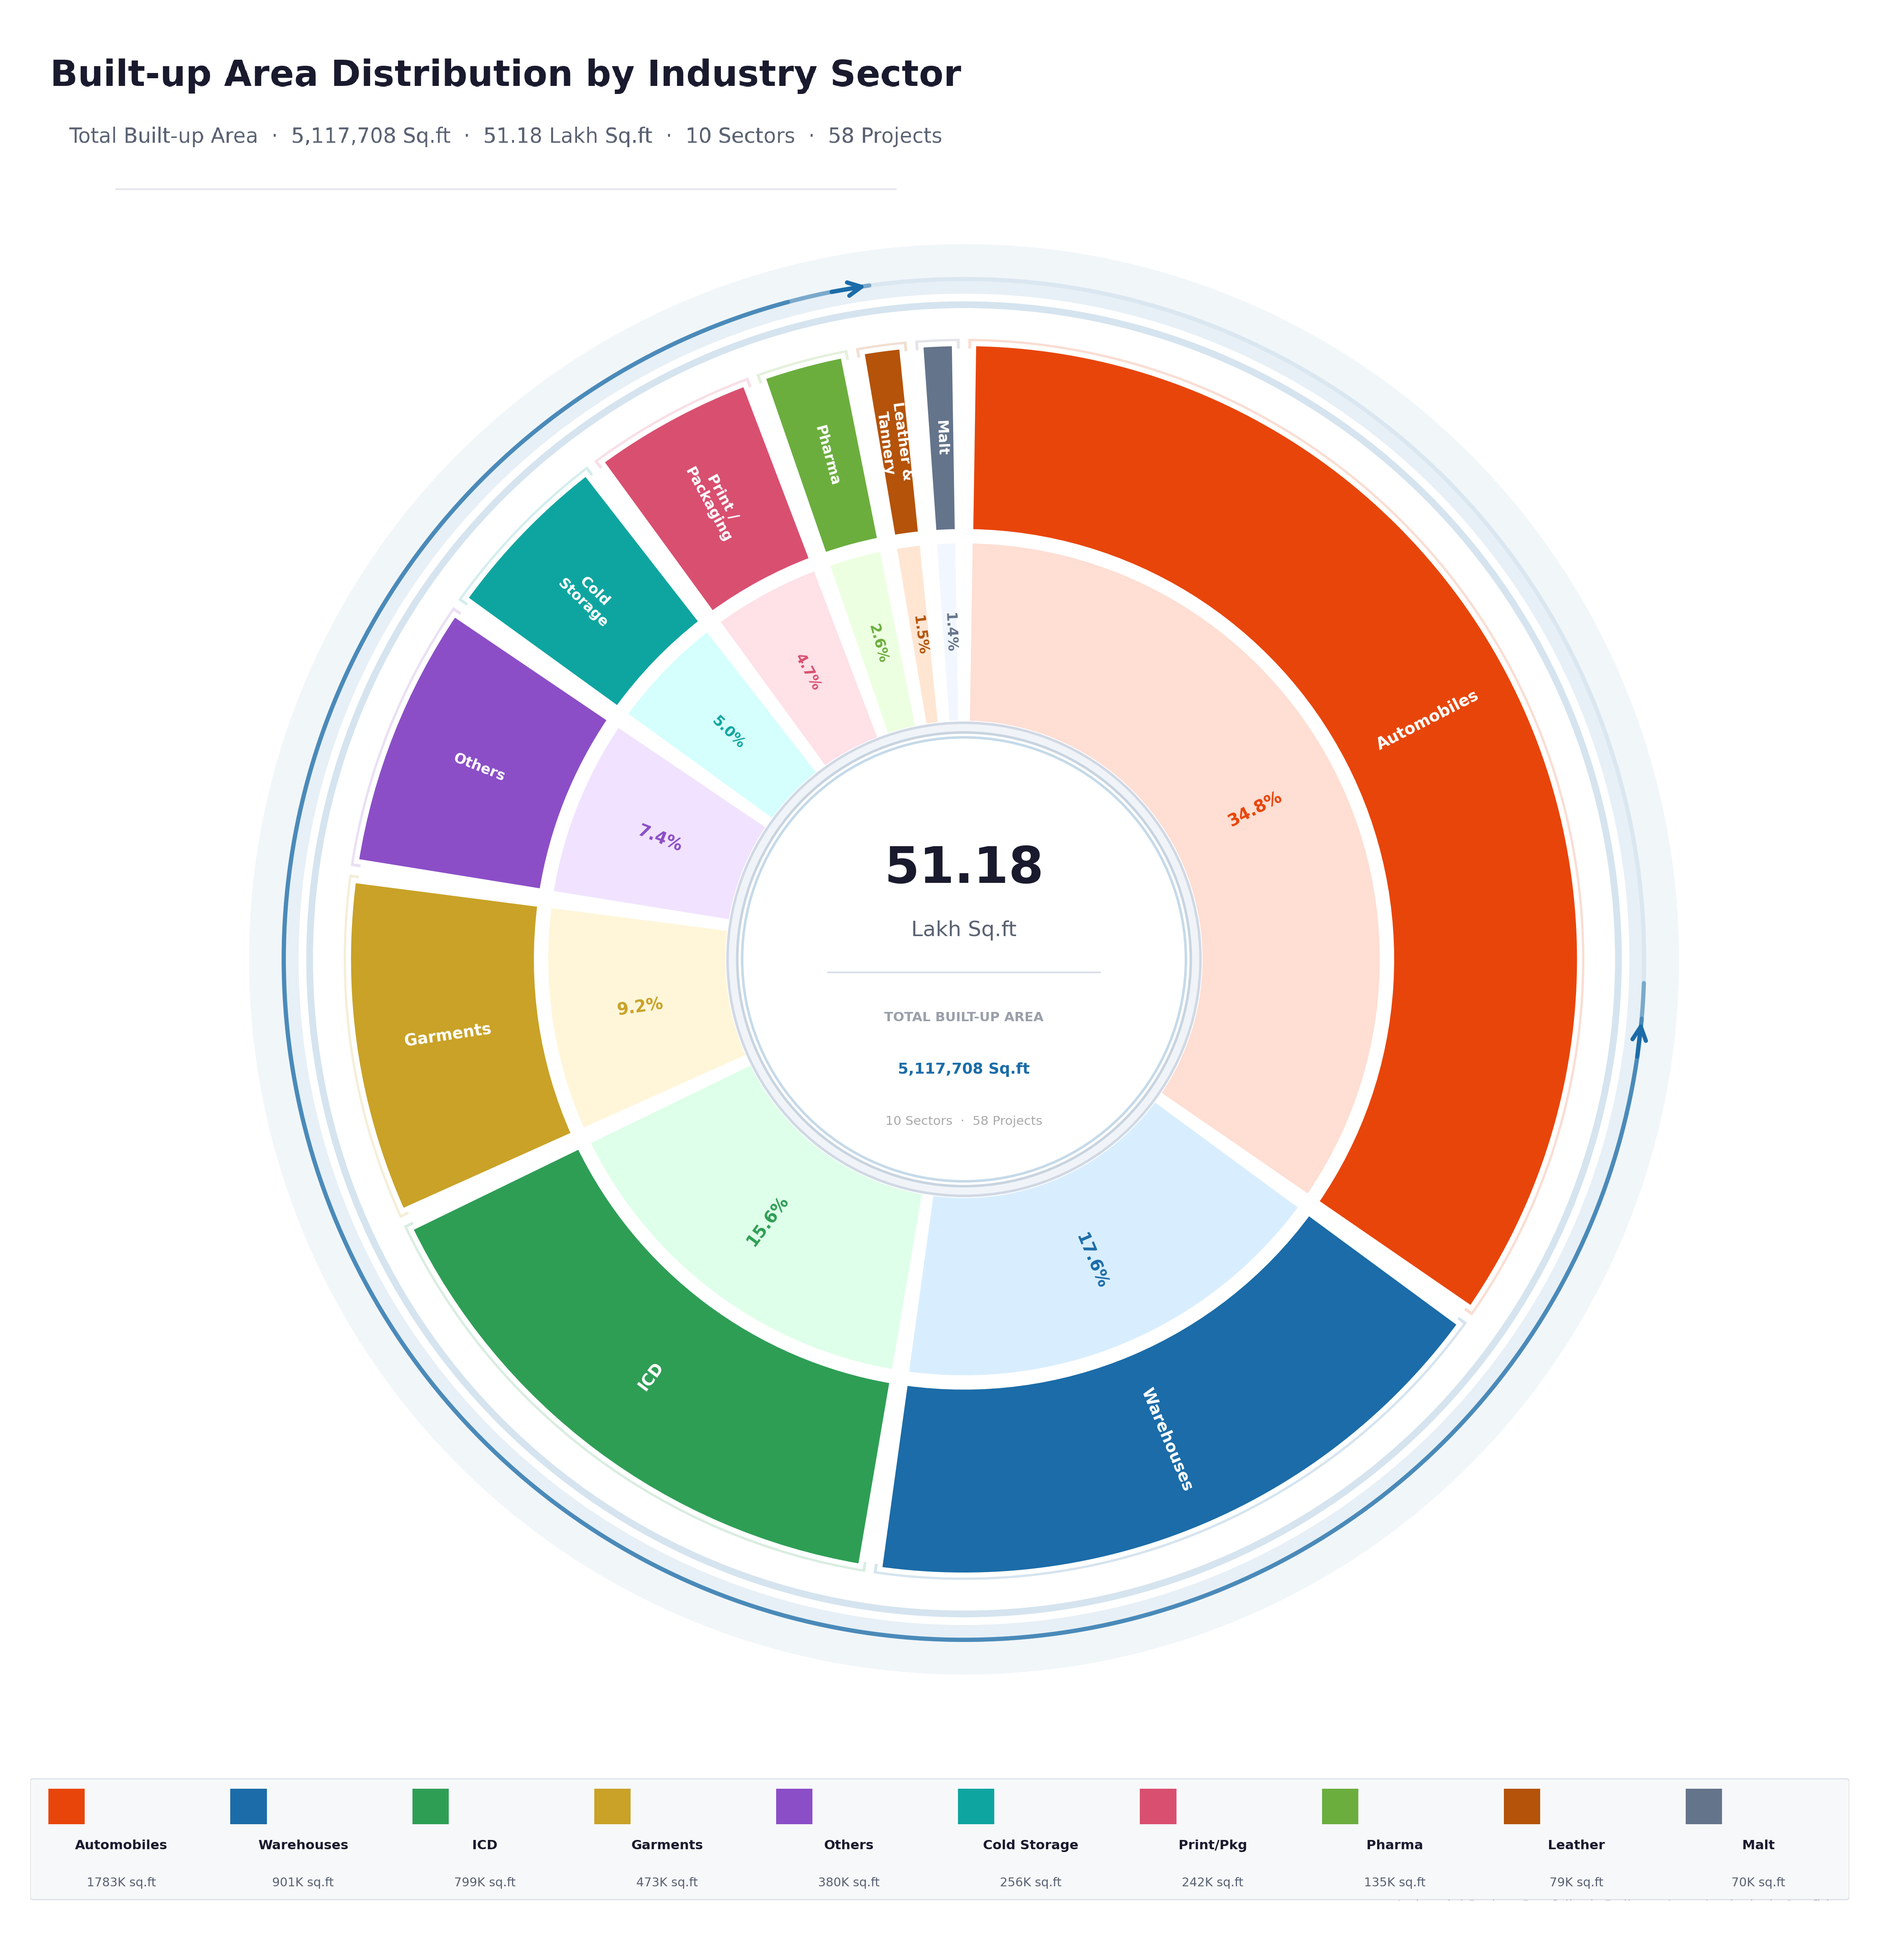
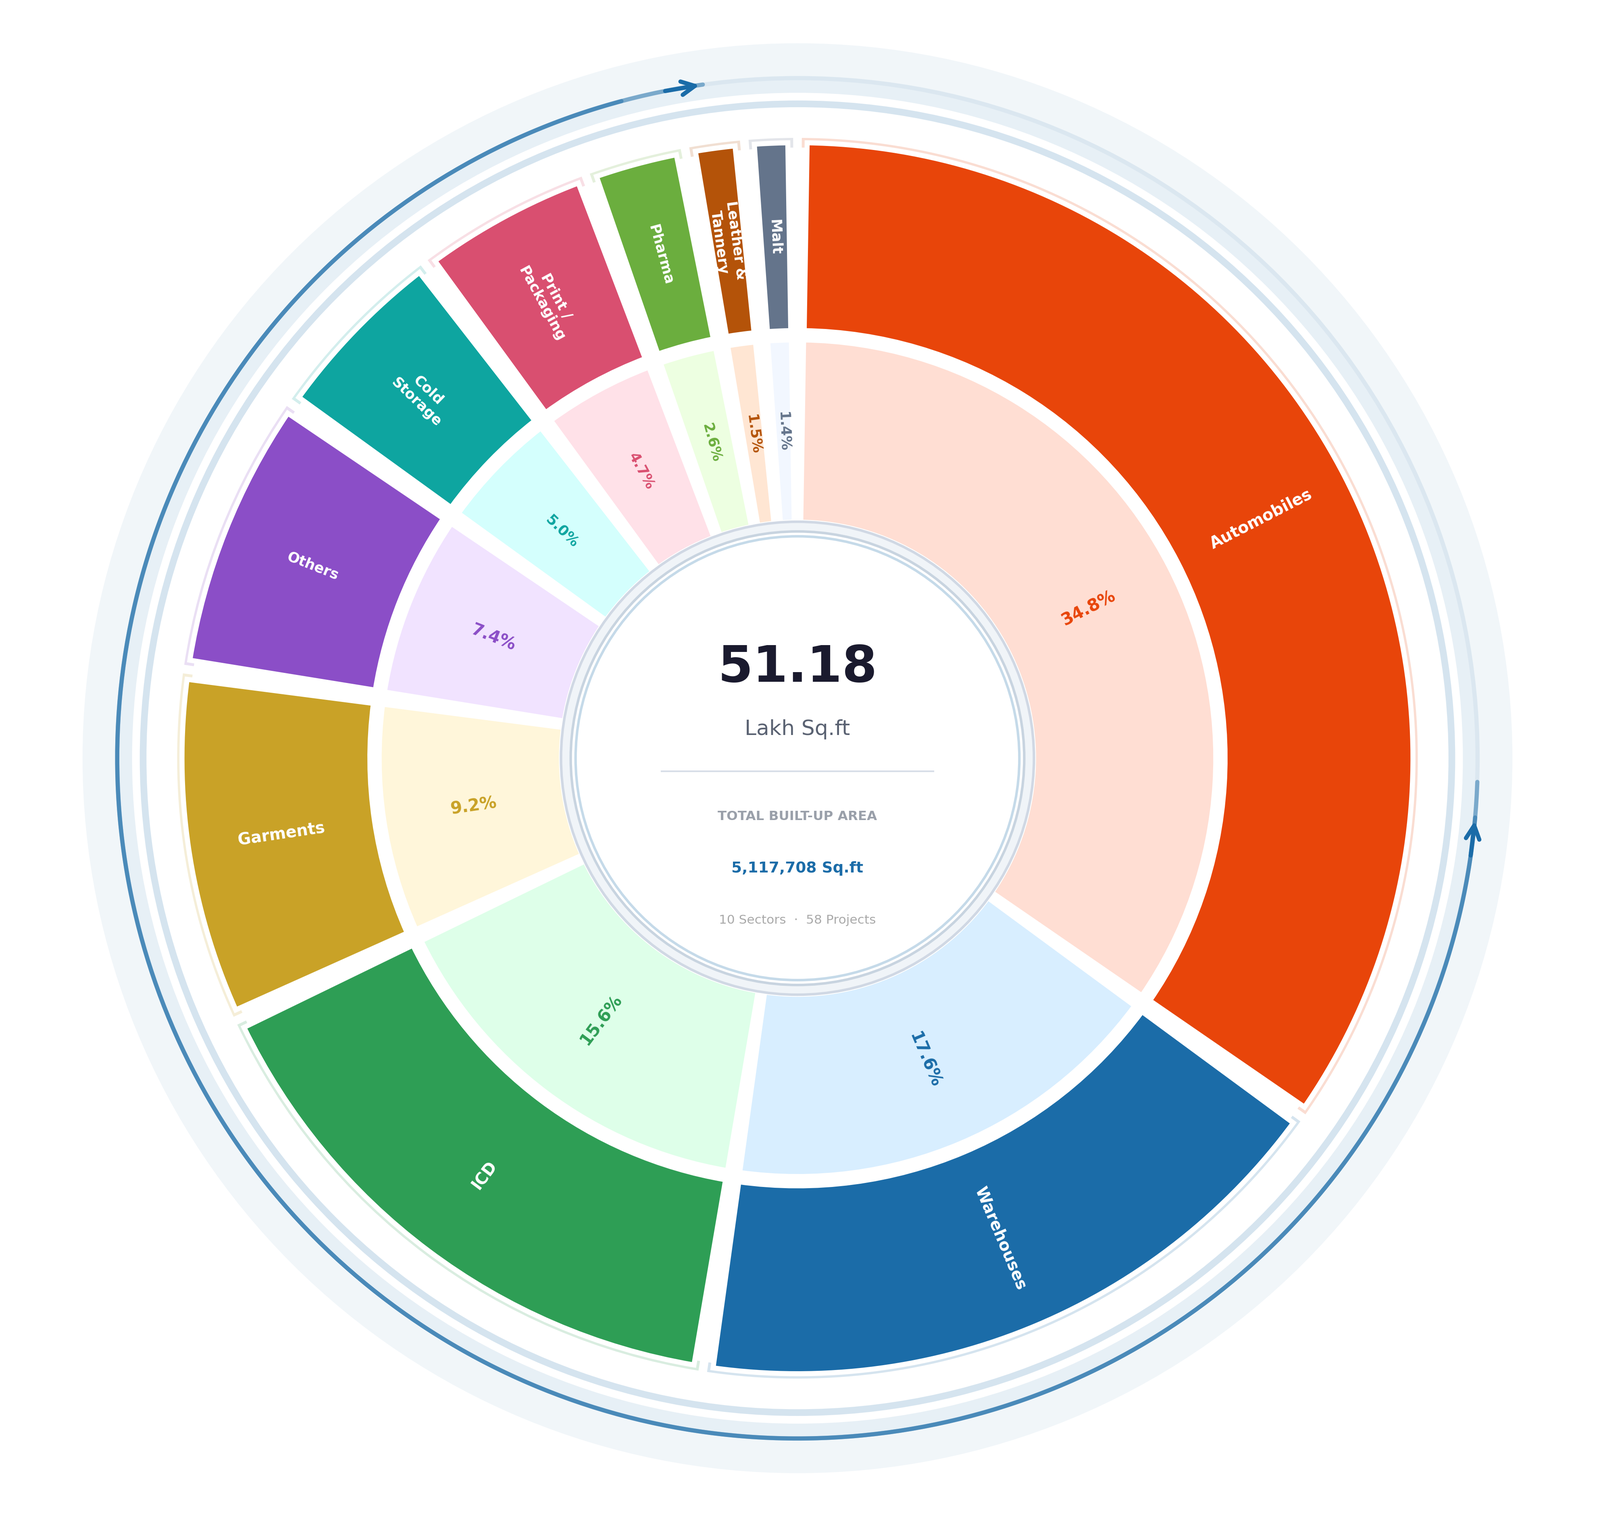
about us done

diff --git a/resources/views/about-us.blade.php b/resources/views/about-us.blade.php
@@ -14,6 +14,18 @@
   $imageAboutTwo = asset('images/about/imageabout2.jpg');
   $indiaMarket = asset('images/about/india-market.webp');
   $graphTwo = asset('images/about/graph2.png');
+  $pieLegends = [
+      ['label' => 'Automobiles', 'value' => '1783K sq.ft', 'pct' => 34.8, 'color' => '#ef3f0a'],
+      ['label' => 'Warehouses', 'value' => '901K sq.ft', 'pct' => 17.6, 'color' => '#1f6ea5'],
+      ['label' => 'ICD', 'value' => '799K sq.ft', 'pct' => 15.6, 'color' => '#2d9b55'],
+      ['label' => 'Garments', 'value' => '473K sq.ft', 'pct' => 9.2, 'color' => '#d0a51e'],
+      ['label' => 'Others', 'value' => '380K sq.ft', 'pct' => 7.4, 'color' => '#874cc7'],
+      ['label' => 'Cold Storage', 'value' => '256K sq.ft', 'pct' => 5.0, 'color' => '#149d9b'],
+      ['label' => 'Print/Pkg', 'value' => '242K sq.ft', 'pct' => 4.7, 'color' => '#d94b70'],
+      ['label' => 'Pharma', 'value' => '135K sq.ft', 'pct' => 2.6, 'color' => '#65ad3a'],
+      ['label' => 'Leather & Tannery', 'value' => '79K sq.ft', 'pct' => 1.5, 'color' => '#ba5205'],
+      ['label' => 'Malt', 'value' => '70K sq.ft', 'pct' => 1.4, 'color' => '#64748b'],
+  ];
 
   if (\Illuminate\Support\Facades\File::exists($aboutGalleryPath)) {
       $aboutGalleryItems = collect(\Illuminate\Support\Facades\File::files($aboutGalleryPath))
@@ -41,6 +53,9 @@
           <h1 class="font-publico text-4xl leading-tight text-brand-dark md:text-5xl lg:text-6xl">About Us</h1>
           <p class="mt-6 font-century text-sm leading-relaxed text-brand-gray md:text-base">
             Satya Architects, a Leading Architecture &amp; Interior Design Firm, believe architecture should do more than occupy space-it should inspire, perform, and endure. Every project is approached with clarity of thought, contextual understanding, and attention to detail.
+          </p>
+          <p class="mt-4 font-century text-sm leading-relaxed text-brand-gray md:text-base">
+            Established in 2010, a consultancy firm with extensive technical and advisory expertise. We guide, plan and design the future of the built environment.
           </p>
         </div>
       </div>
@@ -109,17 +124,181 @@
   <section class="mt-16">
     <div class="mx-auto max-w-[1480px] px-6 md:px-10 lg:px-12">
       <div class="space-y-12 md:space-y-14">
-        <article class="grid gap-6 lg:grid-cols-[0.58fr_0.42fr] lg:gap-10">
-          <figure class="overflow-hidden">
-            <img src="{{ $projectProposalOne }}" alt="Satya Architects pie chart" class="block h-auto w-full object-contain" loading="lazy" decoding="async">
-          </figure>
-          <div class="flex flex-col justify-center px-6 py-7 md:px-8 md:py-8">
-            <p class="font-century text-sm leading-relaxed text-brand-gray md:text-base">
-              Our expertise spans planning, architecture, engineering, and design-build services across various sectors within the sustainable built environment.
+        <article>
+          <div class="mb-10 text-center">
+            <h3 class="font-century text-3xl font-bold leading-tight text-slate-950 md:text-4xl">
+              Built-up Area Distribution by Industry Sector
+            </h3>
+            <p class="mt-5 font-century text-sm leading-relaxed text-slate-500 md:text-lg">
+              Total Built-up Area&nbsp;&nbsp;&middot;&nbsp;&nbsp;5,117,708 Sq.ft&nbsp;&nbsp;&middot;&nbsp;&nbsp;51.18 Lakh Sq.ft&nbsp;&nbsp;&middot;&nbsp;&nbsp;10 Sectors&nbsp;&nbsp;&middot;&nbsp;&nbsp;58 Projects
             </p>
-            <p class="mt-4 font-century text-sm leading-relaxed text-brand-gray md:text-base">
-              Established in 2010, a consultancy firm with extensive technical and advisory expertise. We guide, plan and design the future of the built environment.
-            </p>
+            <div class="mx-auto mt-8 h-px max-w-3xl bg-slate-200"></div>
+          </div>
+          @php
+            $cx = 380;
+            $cy = 380;
+            $gap = 1.35;
+            $toPoint = function (float $radius, float $angle) use ($cx, $cy): array {
+                $rad = deg2rad($angle - 90);
+                return [$cx + ($radius * cos($rad)), $cy + ($radius * sin($rad))];
+            };
+            $arcPath = function (float $start, float $end, float $outerRadius, float $innerRadius) use ($toPoint): string {
+                [$x1, $y1] = $toPoint($outerRadius, $start);
+                [$x2, $y2] = $toPoint($outerRadius, $end);
+                [$x3, $y3] = $toPoint($innerRadius, $end);
+                [$x4, $y4] = $toPoint($innerRadius, $start);
+                $largeArc = ($end - $start) > 180 ? 1 : 0;
+
+                return sprintf(
+                    'M %.3f %.3f A %.3f %.3f 0 %d 1 %.3f %.3f L %.3f %.3f A %.3f %.3f 0 %d 0 %.3f %.3f Z',
+                    $x1,
+                    $y1,
+                    $outerRadius,
+                    $outerRadius,
+                    $largeArc,
+                    $x2,
+                    $y2,
+                    $x3,
+                    $y3,
+                    $innerRadius,
+                    $innerRadius,
+                    $largeArc,
+                    $x4,
+                    $y4
+                );
+            };
+            $chartSectors = [];
+            $currentAngle = 0;
+            $flipTextLabels = ['Warehouses', 'Others', 'Cold Storage', 'Print/Pkg', 'Pharma', 'Leather & Tannery', 'Malt'];
+
+            foreach ($pieLegends as $legend) {
+                $span = $legend['pct'] * 3.6;
+                $start = $currentAngle + $gap;
+                $end = $currentAngle + $span - $gap;
+
+                if ($end <= $start) {
+                    $start = $currentAngle + 0.35;
+                    $end = $currentAngle + $span - 0.35;
+                }
+
+                $mid = ($start + $end) / 2;
+                [$outerLabelX, $outerLabelY] = $toPoint(273, $mid);
+                [$percentX, $percentY] = $toPoint(172, $mid);
+                $textRotation = ($mid > 90 && $mid < 270) ? $mid + 180 : $mid;
+                $labelRotation = $textRotation - 90;
+                $percentRotation = $textRotation - 90;
+
+                if (in_array($legend['label'], $flipTextLabels, true)) {
+                    $labelRotation += 180;
+                    $percentRotation += 180;
+                }
+
+                $chartSectors[] = [
+                    ...$legend,
+                    'outer_path' => $arcPath($start, $end, 314, 232),
+                    'inner_path' => $arcPath($start, $end, 222, 124),
+                    'outer_label_x' => $outerLabelX,
+                    'outer_label_y' => $outerLabelY,
+                    'percent_x' => $percentX,
+                    'percent_y' => $percentY,
+                    'label_rotation' => $labelRotation,
+                    'percent_rotation' => $percentRotation,
+                    'label_class' => 'builtup-radial-chart__sector-label' . ($legend['pct'] < 3 ? ' builtup-radial-chart__sector-label--small' : ''),
+                    'label_line_gap' => $legend['pct'] < 3 ? 8 : 10,
+                ];
+
+                $currentAngle += $span;
+            }
+          @endphp
+          <div class="grid items-center gap-8 lg:grid-cols-[0.55fr_1.9fr_0.55fr] lg:gap-10">
+            <div class="hidden gap-4 lg:order-1 lg:grid lg:grid-cols-1">
+              @foreach (array_slice($pieLegends, 0, 5) as $legend)
+                <div class="flex flex-col items-center gap-2 text-center">
+                  <span class="h-5 w-5 shrink-0" style="background-color: {{ $legend['color'] }}"></span>
+                  <span>
+                    <span class="block font-century text-xs font-semibold text-slate-900 md:text-sm">{{ $legend['label'] }}</span>
+                    <span class="block font-century text-xs text-slate-500">{{ $legend['value'] }}</span>
+                  </span>
+                </div>
+              @endforeach
+            </div>
+            <div class="order-1 mx-auto w-full max-w-[980px] lg:order-2">
+              <svg class="builtup-radial-chart" viewBox="0 0 760 760" role="img" aria-labelledby="builtup-chart-title builtup-chart-desc">
+                <title id="builtup-chart-title">Built-up area distribution by industry sector</title>
+                <desc id="builtup-chart-desc">A two-ring radial chart showing total built-up area of 51.18 lakh square feet across 10 industry sectors.</desc>
+                <defs>
+                  <filter id="builtup-soft-shadow" x="-12%" y="-12%" width="124%" height="124%">
+                    <feDropShadow dx="0" dy="12" stdDeviation="14" flood-color="#cbd5e1" flood-opacity="0.34" />
+                  </filter>
+                </defs>
+
+                <circle cx="380" cy="380" r="326" fill="#f1f7fb" />
+
+                <g filter="url(#builtup-soft-shadow)">
+                  @foreach ($chartSectors as $sector)
+                    <path d="{{ $sector['inner_path'] }}" fill="{{ $sector['color'] }}" opacity="0.18" stroke="#fff" stroke-width="4" />
+                  @endforeach
+                  @foreach ($chartSectors as $sector)
+                    <path d="{{ $sector['outer_path'] }}" fill="{{ $sector['color'] }}" stroke="#fff" stroke-width="6" />
+                  @endforeach
+                </g>
+
+                @foreach ($chartSectors as $sector)
+                  <text
+                    x="{{ $sector['outer_label_x'] }}"
+                    y="{{ $sector['outer_label_y'] }}"
+                    transform="rotate({{ $sector['label_rotation'] }} {{ $sector['outer_label_x'] }} {{ $sector['outer_label_y'] }})"
+                    text-anchor="middle"
+                    dominant-baseline="middle"
+                    class="{{ $sector['label_class'] }}">
+                    @foreach (explode(' ', str_replace('/', '/ ', $sector['label'])) as $wordIndex => $word)
+                      <tspan x="{{ $sector['outer_label_x'] }}" dy="{{ $wordIndex === 0 ? 0 : $sector['label_line_gap'] }}">{{ $word }}</tspan>
+                    @endforeach
+                  </text>
+                  <text
+                    x="{{ $sector['percent_x'] }}"
+                    y="{{ $sector['percent_y'] }}"
+                    transform="rotate({{ $sector['percent_rotation'] }} {{ $sector['percent_x'] }} {{ $sector['percent_y'] }})"
+                    text-anchor="middle"
+                    dominant-baseline="middle"
+                    fill="{{ $sector['color'] }}"
+                    class="builtup-radial-chart__percent">
+                    {{ number_format($sector['pct'], 1) }}%
+                  </text>
+                @endforeach
+
+                <circle cx="380" cy="380" r="121" fill="#fff" stroke="#d6e6f1" stroke-width="8" />
+                <circle cx="380" cy="380" r="112" fill="none" stroke="#c9ddeb" stroke-width="2" />
+                <text x="380" y="344" text-anchor="middle" class="builtup-radial-chart__total">51.18</text>
+                <text x="380" y="371" text-anchor="middle" class="builtup-radial-chart__unit">Lakh Sq.ft</text>
+                <line x1="314" y1="392" x2="446" y2="392" stroke="#d7dee7" stroke-width="1.5" />
+                <text x="380" y="416" text-anchor="middle" class="builtup-radial-chart__caption">TOTAL BUILT-UP AREA</text>
+                <text x="380" y="439" text-anchor="middle" class="builtup-radial-chart__built">5,117,708 Sq.ft</text>
+                <text x="380" y="463" text-anchor="middle" class="builtup-radial-chart__meta">10 Sectors&nbsp;&nbsp;&middot;&nbsp;&nbsp;58 Projects</text>
+              </svg>
+            </div>
+            <div class="order-2 grid grid-cols-2 gap-x-6 gap-y-5 lg:hidden">
+              @foreach ($pieLegends as $legend)
+                <div class="flex flex-col items-center gap-2 text-center">
+                  <span class="h-5 w-5 shrink-0" style="background-color: {{ $legend['color'] }}"></span>
+                  <span>
+                    <span class="block font-century text-xs font-semibold text-slate-900 md:text-sm">{{ $legend['label'] }}</span>
+                    <span class="block font-century text-xs text-slate-500">{{ $legend['value'] }}</span>
+                  </span>
+                </div>
+              @endforeach
+            </div>
+            <div class="hidden gap-4 lg:order-3 lg:grid lg:grid-cols-1">
+              @foreach (array_slice($pieLegends, 5) as $legend)
+                <div class="flex flex-col items-center gap-2 text-center">
+                  <span class="h-5 w-5 shrink-0" style="background-color: {{ $legend['color'] }}"></span>
+                  <span>
+                    <span class="block font-century text-xs font-semibold text-slate-900 md:text-sm">{{ $legend['label'] }}</span>
+                    <span class="block font-century text-xs text-slate-500">{{ $legend['value'] }}</span>
+                  </span>
+                </div>
+              @endforeach
+            </div>
           </div>
         </article>
 
@@ -127,6 +306,9 @@
           <div class="flex items-center px-6 py-7 md:px-8 md:py-8">
             <div>
               <p class="font-century text-sm leading-relaxed text-brand-gray md:text-base">
+                Our expertise spans planning, architecture, engineering, and design-build services across various sectors within the sustainable built environment.
+              </p>
+              <p class="mt-4 font-century text-sm leading-relaxed text-brand-gray md:text-base">
                 We are a leading data-driven design company specialising in Architecture, Master planning, Landscape, Interior Design, and Branded Environments.
               </p>
               <p class="mt-4 font-century text-sm leading-relaxed text-brand-gray md:text-base">
@@ -226,6 +408,68 @@
     line-height: 1.4;
   }
 
+  .builtup-radial-chart {
+    display: block;
+    width: 100%;
+    height: auto;
+    overflow: visible;
+  }
+
+  .builtup-radial-chart__sector-label {
+    fill: #fff;
+    font-family: 'Century Gothic', sans-serif;
+    font-size: 9.5px;
+    font-weight: 700;
+    letter-spacing: 0.01em;
+  }
+
+  .builtup-radial-chart__sector-label--small {
+    font-size: 7.2px;
+    letter-spacing: 0;
+  }
+
+  .builtup-radial-chart__percent {
+    font-family: 'Century Gothic', sans-serif;
+    font-size: 13px;
+    font-weight: 700;
+  }
+
+  .builtup-radial-chart__total {
+    fill: #16172c;
+    font-family: 'Century Gothic', sans-serif;
+    font-size: 30px;
+    font-weight: 800;
+  }
+
+  .builtup-radial-chart__unit {
+    fill: #657084;
+    font-family: 'Century Gothic', sans-serif;
+    font-size: 12px;
+    font-weight: 500;
+  }
+
+  .builtup-radial-chart__caption {
+    fill: #9aa4b2;
+    font-family: 'Century Gothic', sans-serif;
+    font-size: 8px;
+    font-weight: 800;
+    letter-spacing: 0.06em;
+  }
+
+  .builtup-radial-chart__built {
+    fill: #1f6ea5;
+    font-family: 'Century Gothic', sans-serif;
+    font-size: 10.5px;
+    font-weight: 800;
+  }
+
+  .builtup-radial-chart__meta {
+    fill: #a5adba;
+    font-family: 'Century Gothic', sans-serif;
+    font-size: 8px;
+    font-weight: 500;
+  }
+
   @media (max-width: 767px) {
     .about-accordion {
       height: 24rem;
@@ -267,3 +511,4 @@
 </style>
 @endpush
 @endsection
+
